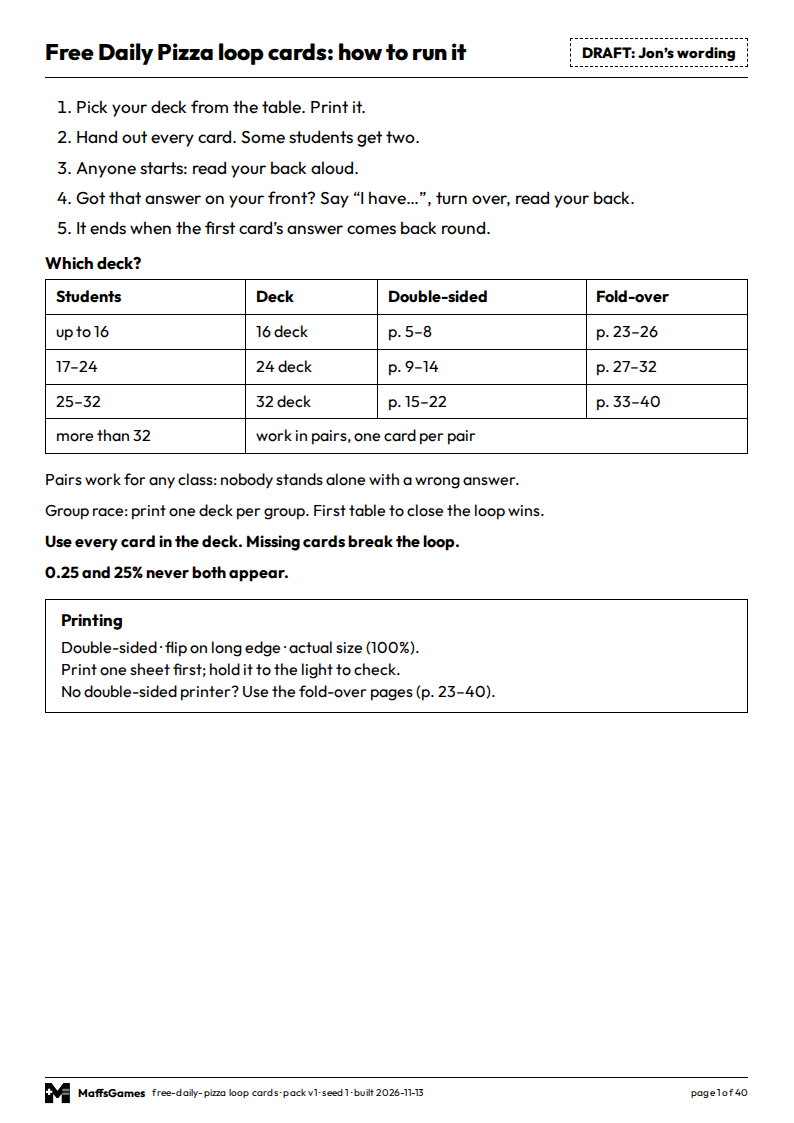
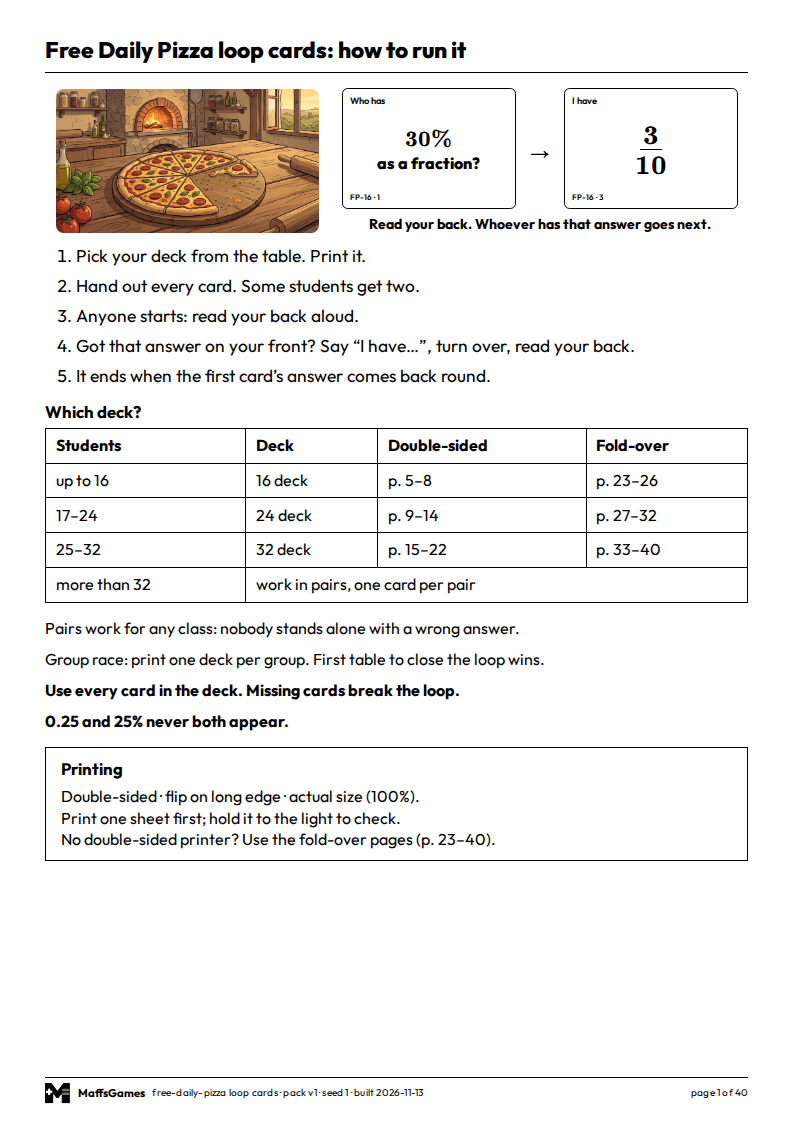
LOOP-PAGE1: page 1's loop diagram and game art for every loop-card pack; (recurring) under Free Daily Pizza's recurring decimals; start art WebPs; two plants, two controls

Changed region(s): [[0.0605, 0.0312, 0.8766, 0.7792], [0.6952, 0.0312, 0.937, 0.0935], [0.7859, 0.0935, 0.8463, 0.1558]]

diff --git a/tools/loop-cards/build_deck.py b/tools/loop-cards/build_deck.py
@@ -79,6 +79,8 @@ TIPS = (
     "Group race: print one deck per group. First table to close the loop wins.",
 )
 NEVER_REMOVE = "Use every card in the deck. Missing cards break the loop."
+LOOP_CAPTION = "Read your back. Whoever has that answer goes next."     # under page 1's diagram (contract LOOP-PAGE1)
+ART_MAX_MM = 99                     # page 1's game art: at most a third of the page's height
 PRINTING = (
     "Double-sided · flip on long edge · actual size (100%).",
     "Print one sheet first; hold it to the light to check.",
@@ -249,12 +251,41 @@ def pages_text(a, b):
     return "%d" % a if a == b else "%d–%d" % (a, b)
 
 
+def game_art(slug):
+    """The game's own start-screen picture, games/<pack slug>/assets/start.webp, or None. Read where it is; never
+    copied."""
+    p = ROOT / "games" / slug / "assets" / "start.webp"
+    return p if p.is_file() else None
+
+
+def loop_diagram(ad, deck):
+    """Page 1's picture of one step of the loop, drawn from the deck itself: card 1 showing its back, an arrow, and
+    the card that back leads to showing its front. A shouted pair is passed over for the next card ID, so the picture
+    is always the plain step. The text is the adapter's own html()."""
+    cards, n = deck["cards"], deck["n"]
+    by_id = sorted(range(n), key=lambda k: cards[k]["id"])
+    k = next(k for k in by_id if not cards[k]["back_wrap"] and not cards[(k + 1) % n]["front_shout"])
+    a, b = cards[k], cards[(k + 1) % n]
+
+    def mini(card, side, text):
+        return ('<div class="lc-dcard" data-side="%s"><div class="lc-dtag">%s</div><div class="lc-dbox">'
+                '<span class="lc-txt">%s</span></div><div class="lc-dcode">%s · %d</div></div>'
+                % (side, esc(card[side + "_label"]), text, esc(card["code"]), card["id"]))
+    return ('<figure class="lc-loop" data-deck="%s">%s<div class="lc-darrow">&rarr;</div>%s<figcaption>%s</figcaption>'
+            '</figure>' % (deck["code"], mini(a, "back", back_html(ad, a)), mini(b, "front", typeset(ad, b["front"])),
+                           esc(LOOP_CAPTION)))
+
+
 def run_page(ad, pack, ranges, fold_range, badge):
+    art = game_art(pack["slug"])
+    top = ('<div class="lc-top">%s%s</div>'
+           % ('<img class="lc-art" src="%s" alt="">' % art.as_uri() if art else "",
+              "" if pack.get("no_diagram") else loop_diagram(ad, pack["decks"][0])))
     rows = "".join("<tr><td>%s</td><td>%d deck</td><td>p. %s</td><td>p. %s</td></tr>"
                    % (who, n, pages_text(*ranges["%s-%d" % (ad.CODE, n)][0]), pages_text(*ranges["%s-%d" % (ad.CODE, n)][1]))
                    for who, n in WHICH_ROWS)
     rows += '<tr><td>%s</td><td colspan="3">%s</td></tr>' % WHICH_PAIRS
-    body = ('<ol class="lc-steps">%s</ol>' % "".join("<li>%s</li>" % esc(s) for s in pack["steps"])
+    body = (top + '<ol class="lc-steps">%s</ol>' % "".join("<li>%s</li>" % esc(s) for s in pack["steps"])
             + '<h2>%s</h2>' % esc(WHICH)
             + '<table class="lc-which"><thead><tr><th>Students</th><th>Deck</th><th>Double-sided</th><th>Fold-over</th>'
               '</tr></thead><tbody>%s</tbody></table>' % rows
@@ -301,6 +332,20 @@ body > section:last-child { break-after: auto; }
 .lc-cut.lc-v { top: 0; bottom: 0; width: 0; border-left: 0.6pt dashed #777; }
 .lc-cut.lc-h { left: 0; right: 0; height: 0; border-top: 0.6pt dashed #777; }
 .lc-fold { position: absolute; top: 0; bottom: 0; width: 0; border-left: 0.8pt dotted #444; }
+.lc-top { display: flex; align-items: center; justify-content: center; gap: 6mm; margin: 0 0 3mm; }
+.lc-top:empty { display: none; }
+.lc-art { display: block; flex: none; height: 38mm; width: auto; max-height: %(art)smm; border-radius: 2mm; }
+.lc-loop { flex: none; margin: 0; display: grid; grid-template-columns: auto auto auto; align-items: center;
+           justify-content: center; column-gap: 2.5mm; row-gap: 1.5mm; }
+.lc-dcard { width: 46mm; height: 32mm; box-sizing: border-box; border: 1pt solid #000; border-radius: 1.5mm;
+            padding: 1.5mm 2mm; display: flex; flex-direction: column; background: #fff; color: #000; }
+.lc-dtag { flex: none; font-size: 7pt; font-weight: 600; line-height: 1.2; }
+.lc-dbox { flex: 1 1 auto; min-height: 0; display: flex; align-items: center; justify-content: center; }
+.lc-dcard .lc-txt { font-size: 12pt; }
+.lc-dcard[data-side=front] .lc-txt { font-size: 20pt; }
+.lc-dcode { flex: none; font-size: 6pt; font-weight: 600; line-height: 1.2; }
+.lc-darrow { font-size: 22pt; font-weight: 800; line-height: 1; }
+.lc-loop figcaption { grid-column: 1 / -1; text-align: center; font-size: 10.5pt; font-weight: 700; }
 .lc-steps { font-size: 13pt; line-height: 1.3; padding-left: 8mm; margin: 1mm 0 3mm; }
 .lc-steps li { margin-bottom: 2mm; }
 table.lc-which { font-size: 12pt; margin-bottom: 4mm; }
@@ -311,7 +356,7 @@ table.lc-which td, table.lc-which th { padding: 1.6mm 2.5mm; }
 .lc-printing h2 { margin: 0 0 1.5mm; }
 table.lc-key td, table.lc-key th { font-size: 10.5pt; line-height: 1.2; padding: 0.8mm 2.5mm; }
 table.lc-key td:first-child { width: 22mm; font-weight: 700; }
-""" % {"w": CARD_W, "h": CARD_H, "s": SAFE_MM, "sw": CARD_W - 2 * SAFE_MM, "sh": CARD_H - 2 * SAFE_MM}
+""" % {"w": CARD_W, "h": CARD_H, "s": SAFE_MM, "sw": CARD_W - 2 * SAFE_MM, "sh": CARD_H - 2 * SAFE_MM, "art": ART_MAX_MM}
 
 
 def render(ad, pack, built):
@@ -469,8 +514,19 @@ AUDIT_JS = """
       if (m.scrollHeight > m.clientHeight + 1 || m.scrollWidth > m.clientWidth + 1)
         out.overflow.push('page ' + (i + 1) + ' (' + kind + ') overflows');
       const tp = {page: i + 1, kind, words: 0, titleWords: words(s.querySelector('.head').innerText), steps: [],
-                  long: [], printingLines: 0};
-      for (const ch of m.children) if (ch.tagName !== 'TABLE') tp.words += words(ch.innerText);
+                  long: [], printingLines: 0, diagram: null, art: null};
+      for (const ch of m.children)
+        if (ch.tagName !== 'TABLE' && !ch.classList.contains('lc-top')) tp.words += words(ch.innerText);
+      const fig = m.querySelector('figure.lc-loop'), img = m.querySelector('img.lc-art');
+      if (fig) tp.diagram = {deck: fig.dataset.deck, back: txt(fig.querySelector('.lc-dcard[data-side=back] .lc-txt')),
+                             front: txt(fig.querySelector('.lc-dcard[data-side=front] .lc-txt')),
+                             backLabel: txt(fig.querySelector('.lc-dcard[data-side=back] .lc-dtag')),
+                             frontLabel: txt(fig.querySelector('.lc-dcard[data-side=front] .lc-dtag')),
+                             arrow: !!fig.querySelector('.lc-darrow'), caption: txt(fig.querySelector('figcaption')),
+                             spill: [...fig.querySelectorAll('.lc-dbox')].some(b => b.scrollWidth > b.clientWidth + 1
+                                                                                   || b.scrollHeight > b.clientHeight + 1)};
+      if (img) tp.art = {loaded: img.complete && img.naturalWidth > 0, hMm: mm(img.getBoundingClientRect().height),
+                         src: img.getAttribute('src')};
       for (const li of m.querySelectorAll('ol.lc-steps > li')) tp.steps.push([words(li.innerText), li.innerText]);
       for (const e of m.querySelectorAll('li, p, h2, .lc-line, td, th')) {
         const n = lines(e);
@@ -553,6 +609,30 @@ def check(ad, pack, plan, fit, audit):
                     add("page 1: a step is %d words (at most %d): %r" % (n, MAX_STEP_WORDS, text))
             if tp["printingLines"] > MAX_LINES:
                 add("page 1: the Printing box is %d lines (at most %d)" % (tp["printingLines"], MAX_LINES))
+            # the loop diagram and the game's art (contract LOOP-PAGE1)
+            dg = tp.get("diagram")
+            if not dg:
+                add("page 1 has no loop diagram")
+            else:
+                if (dg["backLabel"], dg["frontLabel"]) != ("Who has", "I have") or not dg["arrow"]:
+                    add("page 1's diagram is not a 'Who has' back, an arrow and an 'I have' front (%r, %r)"
+                        % (dg["backLabel"], dg["frontLabel"]))
+                if dg["caption"] != LOOP_CAPTION:
+                    add("page 1's diagram caption is %r, not %r" % (dg["caption"], LOOP_CAPTION))
+                if dg["spill"]:
+                    add("page 1's diagram: a card's text overflows its box (%r, %r)" % (dg["back"], dg["front"]))
+                try:
+                    if not (dg["back"] or "").endswith("?") or ad.value_q(dg["back"][:-1].strip()) != ad.value_a(dg["front"]):
+                        add("page 1's diagram: the back %r is not answered by the front %r" % (dg["back"], dg["front"]))
+                except ValueError as e:
+                    add("page 1's diagram: %s" % e)
+            art, want = tp.get("art"), game_art(pack["slug"])
+            if want and not (art and art["loaded"]):
+                add("page 1 does not show the game's art (%s)" % want.relative_to(ROOT))
+            if art and not want:
+                add("page 1 shows art %r, but games/%s/assets/start.webp does not exist" % (art["src"], pack["slug"]))
+            if art and art["hMm"] > ART_MAX_MM + 0.1:
+                add("page 1's art is %.1f mm tall (at most %d, a third of the page)" % (art["hMm"], ART_MAX_MM))
 
     faces = audit["faces"]
     for f in faces:
@@ -777,7 +857,7 @@ def built_today():
 
 def proofs(pg, ad, pack, doc):
     """PNGs at 100% (96 px per inch): each deck's first front, first back and first fold-over page; both shout cards
-    on their own; page 1."""
+    on their own; page 1 and the first answer sheet."""
     slug = pack["slug"]
     PROOF_DIR.mkdir(parents=True, exist_ok=True)
     written = []
@@ -793,6 +873,7 @@ def proofs(pg, ad, pack, doc):
             loc.screenshot(path=str(path))
             written.append(path)
         shot(secs.nth(0), "%s-teacher1.png" % slug)
+        shot(secs.nth(1), "%s-key1.png" % slug)
         for d in pack["decks"]:
             n = d["n"]
             for kind, tag in (("front", "front1"), ("back", "back1"), ("fold", "fallback1")):
@@ -991,6 +1072,21 @@ def plant_eight_others(ad, cfg, pack):
     _rebuild(ad, cfg, pack, 32, _swap_item(items, "54", ad.unused(items)))
 
 
+def plant_no_diagram(ad, cfg, pack):
+    pack["no_diagram"] = True
+
+
+def plant_fp_recurring_unlabelled(ad, cfg, pack):
+    """1/3 asked as a decimal, and the answering card prints the dotted 0.3 without "(recurring)" under it."""
+    d = _deck(pack, "FP-16")
+    third = _fp_forms(ad, 1, 3)
+    k = next(i for i, it in enumerate(d["items"]) if ad.value_a(it["a"])[0] == ad.value_a(third["f"])[0])
+    if not third["d"].endswith(" (recurring)"):
+        raise AssertionError("the page's 1/3 as a decimal carries no (recurring)")
+    d["cards"][k - 1]["back"] = "%s as %s?" % (third["f"], _fp_asked("d"))
+    d["cards"][k]["front"] = third["d"][:-len(" (recurring)")]
+
+
 def _fp_forms(ad, n, d):
     """The game page's printed forms of n/d: {"f": ..., "d": ..., "p": ...}."""
     return next(e for part in ad.page_forms() for e in part if e["v"] == [n, d])
@@ -1086,6 +1182,9 @@ PLANTS = (
      r"FP-32 card \d+: its back .* as a percentage\?' \(= .* as a percentage\) matches no front"),
     ("FP-24 missing one of the game's S1 values", "free-daily-pizza", plant_fp_missing_s1,
      r"FP-24: 1 of the game's 15 S1 values are on no back \(1/2\)"),
+    ("a recurring decimal printed without (recurring)", "free-daily-pizza", plant_fp_recurring_unlabelled,
+     r"FP-16 card \d+ front: the recurring decimal .* does not say \(recurring\)"),
+    ("a page 1 without the loop diagram", "like-terms-collector", plant_no_diagram, r"page 1 has no loop diagram"),
     ("a recurring decimal printed truncated (0.33 for 1/3)", "free-daily-pizza", plant_fp_truncated_third,
      r"FP-16 card \d+: its back '1/3 as a decimal\?' \(= 1/3 as a decimal\) matches no front"),
 )
@@ -1119,6 +1218,22 @@ def selftest():
                     if pr2:
                         failures.append("%s with wording_approved %s fails:\n    %s"
                                         % (slug, c2["wording_approved"], "\n    ".join(pr2)))
+            # page 1's art slot (contract LOOP-PAGE1): a pack whose game has no start.webp prints no art and still
+            # passes every check; Free Daily Pizza's page 1 prints its game's art
+            cfg, ad, pack = packs["free-daily-pizza"]
+            for name, p3, want_art in (("a pack slug with no start.webp", dict(pack, slug="no-such-game"), False),
+                                       ("Free Daily Pizza with its art", pack, True)):
+                doc3, plan3 = render(ad, p3, built_today())
+                fit3, audit3 = measure(pg, doc3)
+                pr3, _ = check(ad, p3, plan3, fit3, audit3)
+                run3 = next(t for t in audit3["teacher"] if t["kind"] == "run")
+                got_art = bool(run3["art"] and run3["art"]["loaded"])
+                if pr3 or got_art != want_art or not run3["diagram"]:
+                    failures.append("control, page 1 for %s: art %s (wanted %s), diagram %s, problems %s"
+                                    % (name, got_art, want_art, bool(run3["diagram"]), pr3 or "none"))
+                else:
+                    print("ok    control, page 1 for %s: %s, the diagram drawn, every check passes"
+                          % (name, "its art printed" if want_art else "no art"))
             for name, slug, fn, expect in PLANTS:
                 cfg, ad, pack = packs[slug]
                 planted = copy.deepcopy(pack)

diff --git a/tools/loop-cards/free_pizza.py b/tools/loop-cards/free_pizza.py
@@ -7,6 +7,9 @@ The values and every printed form are the game's own, never copied: page_forms()
 games/free-daily-pizza/index.html that defines FDP (FDP.S1_VALUES, FDP.S2_VALUES and FDP.fmt's fracText, decText and
 pctText) in a node subprocess, in node's vm module with no browser, and returns what those helpers print. So a
 recurring decimal is the game's 0.3 with a dot over the 3 (the digit, then U+0307) and a third of a percent is 33⅓%.
+Every recurring decimal is then labelled: "(recurring)" is printed under the number, on cards and answer sheets
+alike, and its dot is drawn large (contract LOOP-PAGE1, Jon, 13 Nov 2026), because every deck also holds 0.6 and a
+missed dot breaks the loop. The parser refuses a recurring decimal without the label, and the label on anything else.
 
   Every deck: all 15 FDP.S1_VALUES (the benchmarks, 1/3 and 2/3 among them), plus n - 15 of FDP.S2_VALUES drawn
   uniformly. Every value is on exactly one card, so 0.25 and 25% never both appear. The six conversions (fraction to
@@ -64,14 +67,21 @@ CSS = ("@font-face { font-family: 'KaTeX_Main'; src: url('%sKaTeX_Main-Bold.woff
        # a recurring digit: the dot is drawn over it; its U+0307 stays in the text, undrawn, so no font can misplace it
        ".fp-rec { position: relative; display: inline-block; }"
        ".fp-rec .fp-dot { position: absolute; width: 0; height: 0; overflow: hidden; font-size: 0; }"
-       ".fp-rec::after { content: ''; position: absolute; left: 50%%; top: 0.06em; width: 0.13em; height: 0.13em; "
-       "margin-left: -0.065em; border-radius: 50%%; background: #000; }") % _K
+       # (LOOP-PAGE1: the dot is 0.28em across, over twice its first size of 0.13em)
+       ".fp-rec::after { content: ''; position: absolute; left: 50%%; top: -0.2em; width: 0.28em; height: 0.28em; "
+       "margin-left: -0.14em; border-radius: 50%%; background: #000; }"
+       # a recurring decimal with "(recurring)" centred under it, small; on the answer sheet too
+       ".fp-recnum { display: inline-flex; flex-direction: column; align-items: center; vertical-align: middle; "
+       "line-height: 1.15; padding-top: 0.26em; }"
+       ".fp-reclab { font-family: 'Outfit', sans-serif; font-weight: 600; font-size: 0.8em; white-space: pre; }"
+       ".lc-txt .fp-reclab { font-size: 0.3em; line-height: 1.3; }") % _K
 # The contract's line is "Every card's value is different, so 0.25 and 25% never both appear." (12 words); page 1
 # allows 120 words outside its table and has 114 before this line, so only its last six words fit.
 TEACHER_EXTRA = ("0.25 and 25% never both appear.",)
 SHOUT = None
 
 DOT = "̇"                                # the game's recurring dot: a combining dot above, after its digit
+RECURRING = " (recurring)"                    # printed after (on the page: under) every recurring decimal
 THIRDS = {"⅓": Fraction(1, 3), "⅔": Fraction(2, 3)}
 
 # ---- the game's own values and printed forms, from the page, in node ---------------------------------------------
@@ -109,7 +119,7 @@ def find_node():
 @functools.lru_cache(maxsize=None)
 def page_forms():
     """(S1, S2): each a tuple of {"v": [n, d], "f": ..., "d": ..., "p": ...}, the page's values in the page's order
-    with the text its own helpers print for each form."""
+    with the text its own helpers print for each form; a recurring decimal then carries RECURRING."""
     r = subprocess.run([find_node(), "-e", NODE_DRIVER, str(SOURCE)], capture_output=True, text=True, encoding="utf-8")
     if r.returncode != 0:
         raise ValueError("node could not run %s's FDP code: %s" % (SOURCE.relative_to(ROOT), r.stderr.strip()[-300:]))
@@ -118,6 +128,8 @@ def page_forms():
         for e in data[name]:
             if not all(isinstance(e.get(k), str) and e[k] for k in "fdp"):
                 raise ValueError("the page prints no fraction, decimal or percentage for %s" % e.get("v"))
+            if DOT in e["d"]:
+                e["d"] += RECURRING
     return tuple(data["s1"]), tuple(data["s2"])
 
 
@@ -168,9 +180,15 @@ def _decimal(whole, tail):
 
 def read(text):
     """(exact value, form) of one printed value: "f" a fraction a/b in lowest terms, "d" a decimal, "p" a
-    percentage."""
-    if "̇" in text and not DECIMAL_RE.fullmatch(text):
+    percentage. A recurring decimal must end with " (recurring)", and nothing else may."""
+    labelled = text.endswith(RECURRING)
+    if labelled:
+        text = text[:-len(RECURRING)]
+    if DOT in text and not DECIMAL_RE.fullmatch(text):
         raise ValueError("cannot read %r: a recurring dot outside a decimal" % text)
+    if labelled != (DOT in text):
+        raise ValueError("the recurring decimal %r does not say (recurring)" % text if DOT in text
+                         else "%r says (recurring) but has no recurring dot" % text)
     m = FRACTION_RE.fullmatch(text)
     if m:
         a, b = int(m.group(1)), int(m.group(2))
@@ -255,8 +273,11 @@ def deck_problems(code, n, backs):
 # ---- typesetting ---------------------------------------------------------------------------------------------------
 
 def _value_html(text):
-    out = text.replace("&", "&amp;").replace("<", "&lt;").replace(">", "&gt;")
+    label = text.endswith(RECURRING)
+    out = (text[:-len(RECURRING)] if label else text).replace("&", "&amp;").replace("<", "&lt;").replace(">", "&gt;")
     out = re.sub(r"(\d)%s" % DOT, r'<span class="fp-rec">\1<span class="fp-dot">%s</span></span>' % DOT, out)
+    if label:
+        return '<span class="fp-recnum"><span>%s</span><span class="fp-reclab">%s</span></span>' % (out, RECURRING)
     return FRACTION_RE.sub(r'<span class="fp-frac"><span class="fp-n">\1</span><span class="fp-sl">/</span>'
                            r'<span class="fp-d">\2</span></span>', out)
 

diff --git a/scripts/test-loop-cards.py b/scripts/test-loop-cards.py
@@ -1,6 +1,6 @@
 #!/usr/bin/env python3
-# ci-line: Loop cards (tools/loop-cards/build_deck.py --selftest: all three loop-card packs, Six Sevens, Bruv, Like Terms Collector and Free Daily Pizza, pass every check as built, with the DRAFT badge following approval both ways; twenty-three planted faults caught (a duplicated answer, a back with no front, two loops in one deck, a card asking its own answer, a back not mirrored, text past the safe zone, a string-similar answer, a card from another deck, a long teacher step, no 6 × 7, a shout on the wrong card or back, a shout in Like Terms, a face without the web address, an 11-table card in SS-24, a 2-times card in SS-16, SS-32 with 8 cards off the core tables, a Free Daily Pizza value on two cards, a back asking for the form it gives, a front in the wrong form, FP-24 missing an S1 value, 0.33 printed for 1/3, an unapproved --final); no PDF is ever built in CI) |
-# ci-deps: tools/loop-cards/ tools/pack-generator/ games/like-terms-collector/ games/free-daily-pizza/ scripts/bank_common.py scripts/plant_common.py scripts/escape_set_checks.py scripts/ci_shards.py scripts/fonts/ schools/assets/m_plus_logo.svg
+# ci-line: Loop cards (tools/loop-cards/build_deck.py --selftest: all three loop-card packs, Six Sevens, Bruv, Like Terms Collector and Free Daily Pizza, pass every check as built, with the DRAFT badge following approval both ways; twenty-five planted faults caught (a duplicated answer, a back with no front, two loops in one deck, a card asking its own answer, a back not mirrored, text past the safe zone, a string-similar answer, a card from another deck, a long teacher step, no 6 × 7, a shout on the wrong card or back, a shout in Like Terms, a face without the web address, an 11-table card in SS-24, a 2-times card in SS-16, SS-32 with 8 cards off the core tables, a Free Daily Pizza value on two cards, a back asking for the form it gives, a front in the wrong form, FP-24 missing an S1 value, 0.33 printed for 1/3, a recurring decimal without (recurring), a page 1 without its loop diagram, an unapproved --final; page 1's art slot passes with and without a start.webp); no PDF is ever built in CI) |
+# ci-deps: tools/loop-cards/ tools/pack-generator/ games/like-terms-collector/ games/free-daily-pizza/ games/six-sevens-bruv/ scripts/bank_common.py scripts/plant_common.py scripts/escape_set_checks.py scripts/ci_shards.py scripts/fonts/ schools/assets/m_plus_logo.svg
 """CI's entry to the loop-card generator's self-test (contract SIX-SEVENS-WEIGHTING, 13 Nov 2026).
 
 CI finds its lines only in scripts/*.py headers (scripts/ci-groups.py), and the generator lives in tools/loop-cards/,

diff --git a/tools/loop-cards/README.md b/tools/loop-cards/README.md
@@ -106,7 +106,8 @@ version. The adapter (`six_sevens.py`, `like_terms.py`, `free_pizza.py`) gives:
   one card only, asked as "Who has 3/4 as a decimal?" with the six conversions between fraction, decimal and
   percentage spread evenly. The values and every printed form come from the page's own FDP code, run each build in
   a node subprocess (node's `vm`, no browser; `node` on PATH, else the one the Playwright package ships), so a
-  recurring decimal has the game's dot and a third of a percent is 33⅓%. Its `deck_problems()` holds each deck to
+  recurring decimal has the game's dot, drawn large with "(recurring)" under the number on cards and answer sheets
+  (LOOP-PAGE1; the parser refuses one without the label), and a third of a percent is 33⅓%. Its `deck_problems()` holds each deck to
   that mix from the printed backs.
 - `value_q()` and `value_a()`: the independent recomputation of a printed question and answer. Free Daily Pizza's
   return (value, form) from its own Fraction parser, so a front in the wrong form answers no back.
@@ -118,6 +119,16 @@ version. The adapter (`six_sevens.py`, `like_terms.py`, `free_pizza.py`) gives:
 Approval, the DRAFT badge, `--final`, the offline browser, `page()` and the gitignore and page-count helpers are
 imported from `tools/pack-generator/build_pack.py`, not copied. The footer string follows `build_pack.py`'s
 `build_html()`, which builds it inline (there is no public function to import).
+
+**Page 1's picture and art (contract LOOP-PAGE1, 13 Nov 2026).** `run_page()` opens page 1 with a row of two things,
+for every pack and with no per-pack code. The diagram is one step of the loop drawn from the pack's first deck:
+card 1 showing its back ("Who has ...?"), an arrow, and the card that back leads to showing its front ("I have
+..."), over the caption "Read your back. Whoever has that answer goes next." (a shouted pair is passed over for the
+next card ID). The art is the game's own start-screen picture, `games/<pack slug>/assets/start.webp`, read where it
+is and never copied; a pack whose game has none prints no art and changes nothing else. The row is outside page
+1's 120-word count, as its table is. The build fails if the diagram is missing, if its back is not answered by its
+front (recomputed by the adapter's parser), or if the art exists and is not printed or is taller than a third of
+the page.
 
 A new game needs one adapter, one config and its adapter's name added to `ADAPTERS` in `build_deck.py`, which is
 also where its selftest plants go; the layout and loop code do not change.
